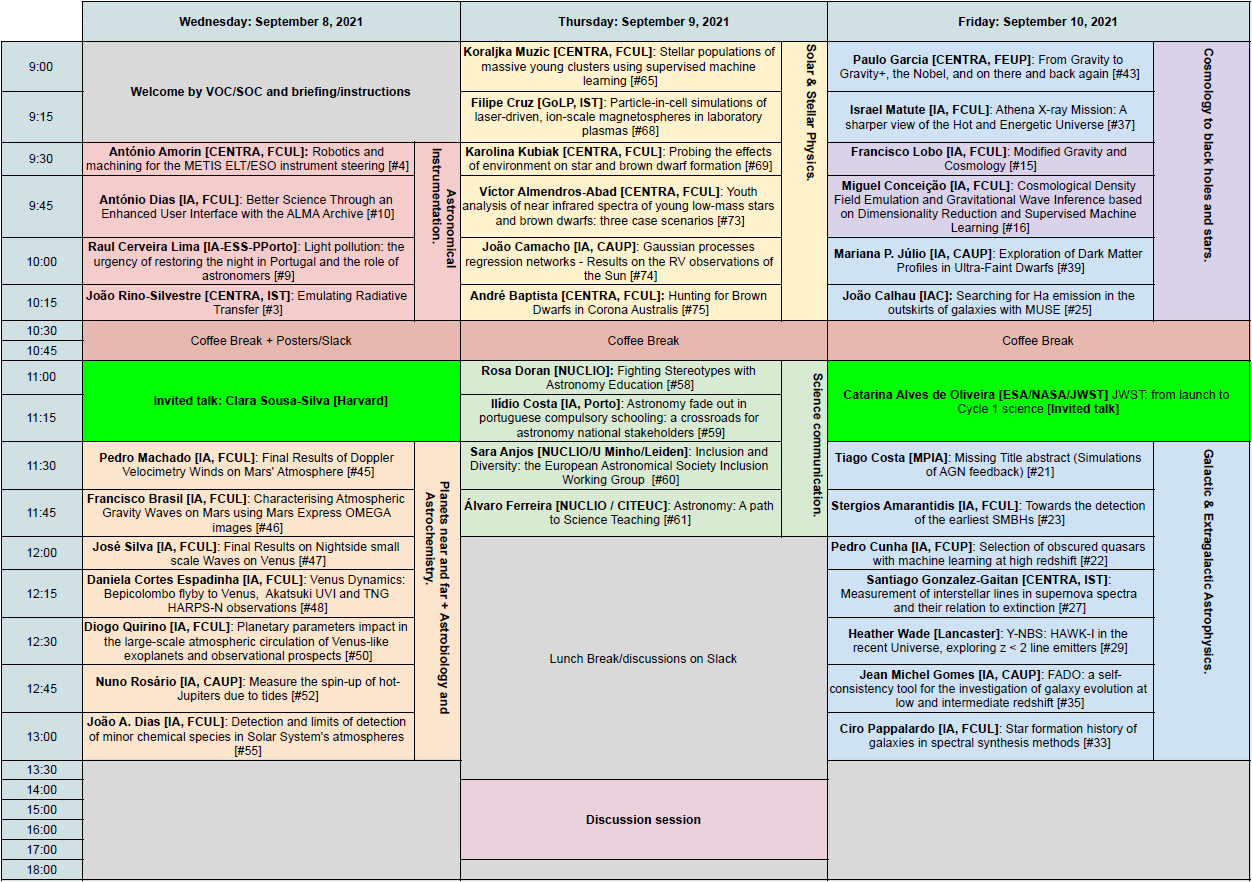
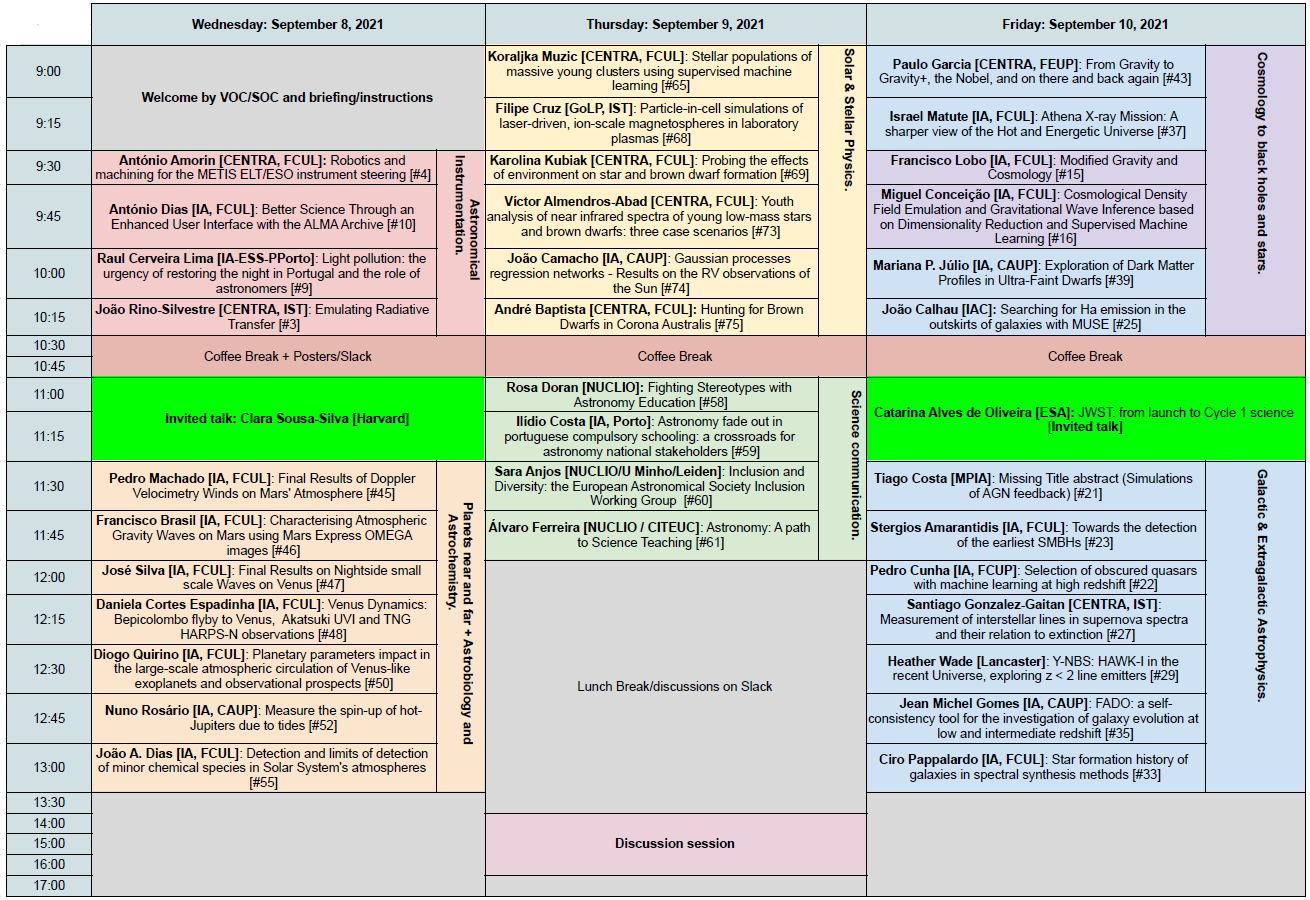
updated affiliation

diff --git a/invited.md b/invited.md
@@ -3,7 +3,7 @@
 You can find in this page the list of people with invited contributions to this conference.
 
 Confirmed speakers:
-- Catarina Alves de Oliveira (ESA/NASA/JWST)
+- Catarina Alves de Oliveira (ESA)
 
 <br>
 
